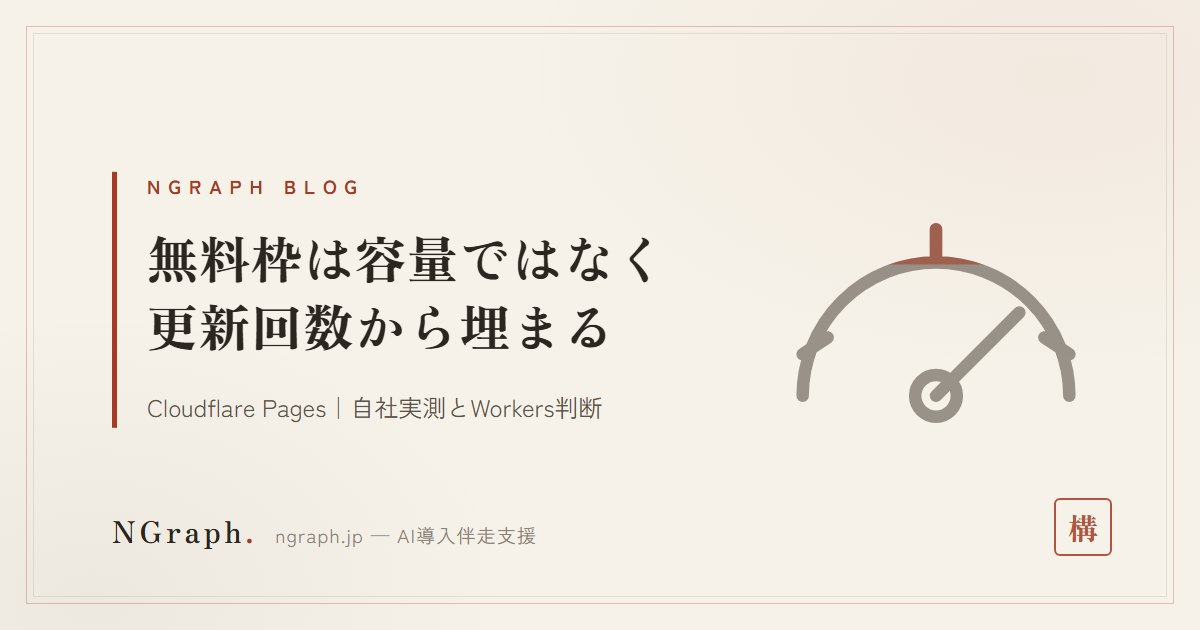
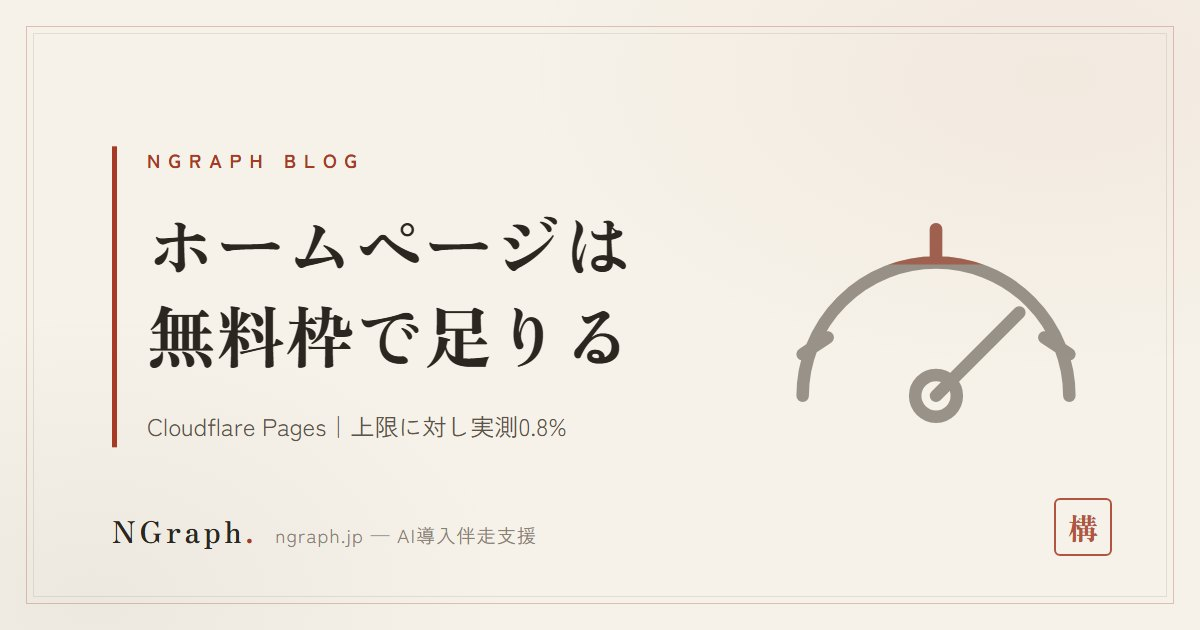
blog: Cloudflare Pages回を改題・表紙を作り直し、級数が落ちたら止める検査を入れた
- 表紙の文言が19文字で級数が51ptまで落ち、隣の朝記事(11文字=68pt)と並ぶと
  明らかに小さかった。文言を「ホームページは無料枠で足りる」に短縮して68ptへ
- eyecatch_gen.py に読める下限(60pt)を入れた。割ったら exit 3 で止まり、
  あと何文字削ればよいかを出す。目視ではなくエラーで守る
- タイトルが専門的で何の記事か分からなかったので、読者の言葉へ改題
  「会社のホームページは無料枠で足りる——…実測0.8%と、唯一つまずいた1か所」
  リード末尾の「この記事でわかること」も改題後の約束に合わせた

diff --git a/blog/20260810-cloudflare-pages.html b/blog/20260810-cloudflare-pages.html
@@ -10,9 +10,9 @@
   gtag('js', new Date());
   gtag('config', 'G-L96HMXRK1D');
 </script>
-<title>Cloudflare Pagesの無料枠は容量ではなく更新回数から埋まる——自社実測3項目と、Workersへ寄せる判断基準 | NGraphブログ</title>
+<title>会社のホームページは無料枠で足りる——Cloudflare Pagesの上限に対し実測0.8%と、唯一つまずいた1か所 | NGraphブログ</title>
 <meta name="description" content="ngraph.jpはCloudflare Pagesで配信しています。無料枠の3つの上限（ファイル数・容量・ビルド回数）に対する自社実測と、公式ドキュメントのWorkers移行案内を突き合わせ、どちらを選ぶべきかの判断基準を解説します。">
-<meta property="og:title" content="Cloudflare Pagesの無料枠は容量ではなく更新回数から埋まる——自社実測3項目と、Workersへ寄せる判断基準 | NGraphブログ">
+<meta property="og:title" content="会社のホームページは無料枠で足りる——Cloudflare Pagesの上限に対し実測0.8%と、唯一つまずいた1か所 | NGraphブログ">
 <meta property="og:description" content="無料枠の3つの上限に対する自社実測と、公式ドキュメントのWorkers移行案内を突き合わせました。2桁の使用率に届きうるのは更新回数だけです。">
 <meta property="og:type" content="article">
 <meta property="og:url" content="https://ngraph.jp/blog/20260810-cloudflare-pages">
@@ -33,7 +33,7 @@
 {
   "@context": "https://schema.org",
   "@type": "Article",
-  "headline": "Cloudflare Pagesの無料枠は容量ではなく更新回数から埋まる——自社実測3項目と、Workersへ寄せる判断基準",
+  "headline": "会社のホームページは無料枠で足りる——Cloudflare Pagesの上限に対し実測0.8%と、唯一つまずいた1か所",
   "image": "https://ngraph.jp/assets/blog/20260810-cloudflare-pages.jpg",
   "description": "ngraph.jpはCloudflare Pagesで配信しています。無料枠の3つの上限（ファイル数・容量・ビルド回数）に対する自社実測と、公式ドキュメントのWorkers移行案内を突き合わせ、どちらを選ぶべきかの判断基準を解説します。",
   "datePublished": "2026-08-10",
@@ -75,11 +75,11 @@
 
 <article class="article-wrap">
   <div class="a-label">Evening Deep Dive</div>
-  <h1>Cloudflare Pagesの無料枠は容量ではなく更新回数から埋まる——自社実測3項目と、Workersへ寄せる判断基準</h1>
+  <h1>会社のホームページは無料枠で足りる——Cloudflare Pagesの上限に対し実測0.8%と、唯一つまずいた1か所</h1>
   <span class="a-date">2026.08.10 夕 ｜ 株式会社NGraph</span>
-  <img class="a-eyecatch" src="/assets/blog/20260810-cloudflare-pages.jpg" alt="Cloudflare Pagesの無料枠は容量ではなく更新回数から埋まる——自社実測3項目と、Workersへ寄せる判断基準">
+  <img class="a-eyecatch" src="/assets/blog/20260810-cloudflare-pages.jpg" alt="会社のホームページは無料枠で足りる——Cloudflare Pagesの上限に対し実測0.8%と、唯一つまずいた1か所">
 
-<p><strong>Cloudflare Pages</strong>とは、作り終えたサイトのファイルをCloudflareの世界中のサーバーに置いて配る仕組みです。Git（ファイルの変更履歴を管理する仕組み）に変更を送ると、自動で本番に反映されます。総務省「令和7年通信利用動向調査報告書（企業編）」（2026年5月29日公表・調査時点は令和7年8月末）によると、ホームページ開設率は93.3%（有効回答2,488社）でした。<strong>ただしこの調査の対象は常用雇用者100人以上の企業6,040社で、中小企業の実態を示す数字ではありません</strong>。この記事はうちが本番で運用しているCloudflare Pagesだけを題材にします。この記事でわかることは3点です。無料枠の上限は3つあり、先に埋まるのは容量ではなく更新回数だということ。PagesとWorkersの「20,000ファイル」は数える単位が違うこと。公式ドキュメントが実際には何と書いていて、何を書いていないか——です。</p>
+<p><strong>Cloudflare Pages</strong>とは、作り終えたサイトのファイルをCloudflareの世界中のサーバーに置いて配る仕組みです。Git（ファイルの変更履歴を管理する仕組み）に変更を送ると、自動で本番に反映されます。総務省「令和7年通信利用動向調査報告書（企業編）」（2026年5月29日公表・調査時点は令和7年8月末）によると、ホームページ開設率は93.3%（有効回答2,488社）でした。<strong>ただしこの調査の対象は常用雇用者100人以上の企業6,040社で、中小企業の実態を示す数字ではありません</strong>。この記事はうちが本番で運用しているCloudflare Pagesだけを題材にします。この記事でわかることは3点です。無料枠の上限は3つあり、先に埋まるのは容量ではなく更新回数だということ。PagesとWorkersの「20,000ファイル」は数える単位が違い、公式ドキュメントが実際には何と書いていて何を書いていないか。そして、うちが唯一つまずいたのは料金でも速度でもなく、URLの末尾だったこと——です。</p>
 
 <h2>Cloudflare Pagesとは何か——「作る」と「配る」を1本でつなぐ置き場所</h2>
 <p>Cloudflare Pagesは、Git（ファイルの変更履歴つきの置き場所。誰が・いつ・何を変更したかを記録する）にサイトの素材を送ると、Cloudflareが自動でビルド（人が書いた素材を、ブラウザが読める形に組み立てる作業）して、世界中のサーバーに配る仕組みです。従来の月額レンタルサーバーとの違いは、「サーバーを借りて自分でファイルを置く」ではなく「Gitに送ると勝手に配られる」ことにあります。CDN（Content Delivery Network＝同じファイルを世界中のサーバーに複製して置き、利用者に近い場所から配る仕組み）としての性質を持つため、閲覧者は地理的に近いサーバーからファイルを受け取ります。</p>

diff --git a/blog/20260810-openai-signals-japan.html b/blog/20260810-openai-signals-japan.html
@@ -112,7 +112,7 @@
 ・Google「<a href="https://blog.google/innovation-and-ai/models-and-research/gemini-models/gemini-omni-builders/" target="_blank" rel="noopener">Gemini Omni builders</a>」（2026年8月7日）<br>
 ・あわせて読む：<a href="/blog/20260806-seihon-yomarenai">AIは指示を一定確率で無視する——「プロンプトを増やす」が対策にならない理由と、仕組みで塞ぐ方法</a>（当ブログ）<br>
 ・あわせて読む：<a href="/blog/20260804-ai-kenshu-teichaku">AI研修が定着しない理由——「時間がない45.5%」と、助成金が"実務の中の練習"を対象外にする構造</a>（当ブログ）<br>
-・あわせて読む：<a href="/blog/20260810-cloudflare-pages">Cloudflare Pagesの無料枠は容量ではなく更新回数から埋まる——自社実測3項目と、Workersへ寄せる判断基準</a>（当ブログ・2026年8月10日夕）</div>
+・あわせて読む：<a href="/blog/20260810-cloudflare-pages">会社のホームページは無料枠で足りる——Cloudflare Pagesの上限に対し実測0.8%と、唯一つまずいた1か所</a>（当ブログ・2026年8月10日夕）</div>
 
   <a href="/blog/" class="a-back">← ブログ一覧に戻る</a>
 </article>

diff --git a/blog/index.html b/blog/index.html
@@ -63,7 +63,7 @@
       <div class="card blog-card">
         <span class="b-date">2026.08.10 夕</span>
         <a href="/blog/20260810-cloudflare-pages" class="b-thumb"><img src="/assets/blog/20260810-cloudflare-pages.jpg" alt="" loading="lazy"></a>
-        <h3><a href="/blog/20260810-cloudflare-pages">Cloudflare Pagesの無料枠は容量ではなく更新回数から埋まる——自社実測3項目と、Workersへ寄せる判断基準</a></h3>
+        <h3><a href="/blog/20260810-cloudflare-pages">会社のホームページは無料枠で足りる——Cloudflare Pagesの上限に対し実測0.8%と、唯一つまずいた1か所</a></h3>
         <p>ngraph.jpはCloudflare Pagesで配信しています。無料枠の3つの上限に対する自社実測と、公式ドキュメントのWorkers移行案内を突き合わせ、どちらを選ぶべきかの判断基準を解説します。</p>
         <a href="/blog/20260810-cloudflare-pages" class="b-more">読む →</a>
       </div>

diff --git a/scripts/eyecatch_gen.py b/scripts/eyecatch_gen.py
@@ -96,6 +96,10 @@ def esc(s):
 # ここを566のまま計算していて、1文字あふれて3行になる回が出た（2026-08-08）。
 BOX_W = 531
 FS_MAX, FS_MIN = 68, 40
+# 表紙は一覧で縮小表示される。2行に収まっても級数が落ちると読めない
+# （2026-08-10、19文字の文言が51ptになり、隣の朝記事68ptと並んで明らかに小さかった）。
+# 上限68に対する読める下限。ここを割ったら文言を短くする＝生成させない。
+FS_LEGIBLE = 60
 
 
 MAX_LINES = 2
@@ -132,13 +136,33 @@ def fit_font_size(title):
         return FS_MAX
     for fs in range(FS_MAX, FS_MIN - 1, -1):
         if _count_lines(body, fs) <= MAX_LINES:
+            _require_legible(fs, body)
             return fs
     n = _count_lines(body, FS_MIN)
     if n > MAX_LINES:
         print("ERROR: タイトルが長すぎて%d行に収まりません（最小級数%dptでも%d行）。"
               "タイトルを短くしてください。" % (MAX_LINES, FS_MIN, n))
         sys.exit(3)
+    _require_legible(FS_MIN, body)
     return FS_MIN
+
+
+def _require_legible(fs, body):
+    """級数が読める下限を割ったら、何文字削ればよいかを出して止める。"""
+    if fs >= FS_LEGIBLE:
+        return
+    # FS_LEGIBLE で MAX_LINES 行に収まる文字数まで削る必要がある
+    keep = len(body)
+    while keep and _count_lines(body[:keep], FS_LEGIBLE) > MAX_LINES:
+        keep -= 1
+    print("ERROR: 表紙の文言が長く、級数が%dpt（読める下限%dpt・上限%dpt）まで落ちます。"
+          % (fs, FS_LEGIBLE, FS_MAX))
+    print("       一覧では縮小表示されるので、この大きさでは読めません。"
+          "いまの文言は%d文字。あと%d文字ほど削ってください（目安%d文字以内）。"
+          % (len(body), len(body) - keep, keep))
+    print("       表紙の文言は記事タイトルと同じである必要はありません"
+          "（記事タイトルの主張だけを短く言い切る）。")
+    sys.exit(3)
 
 
 def main():
